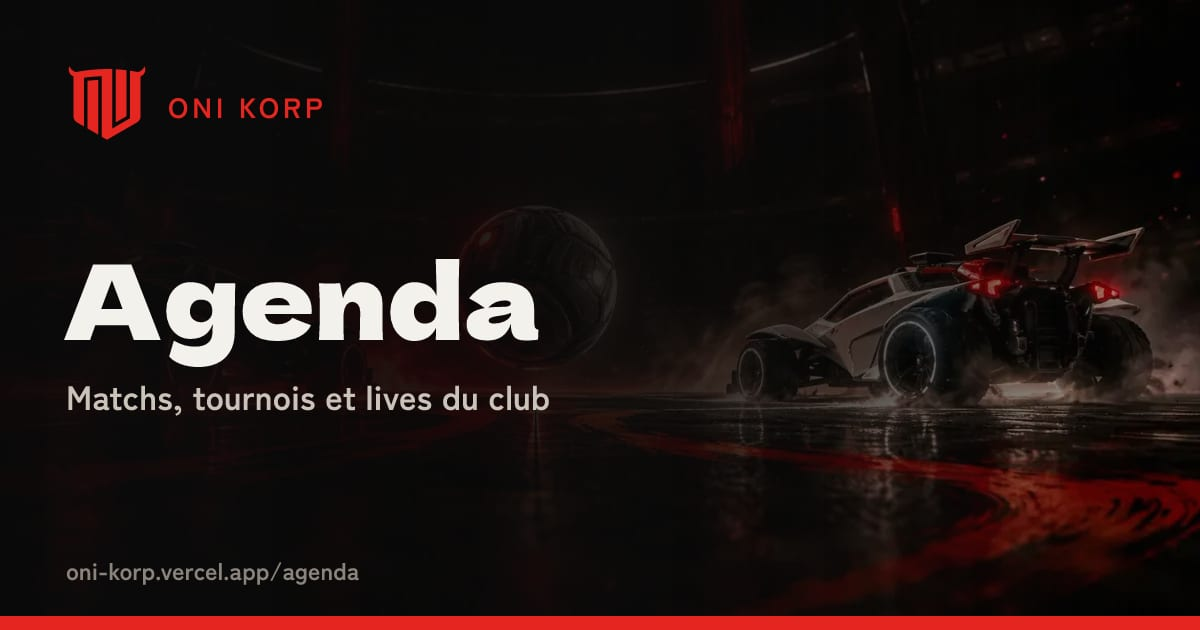
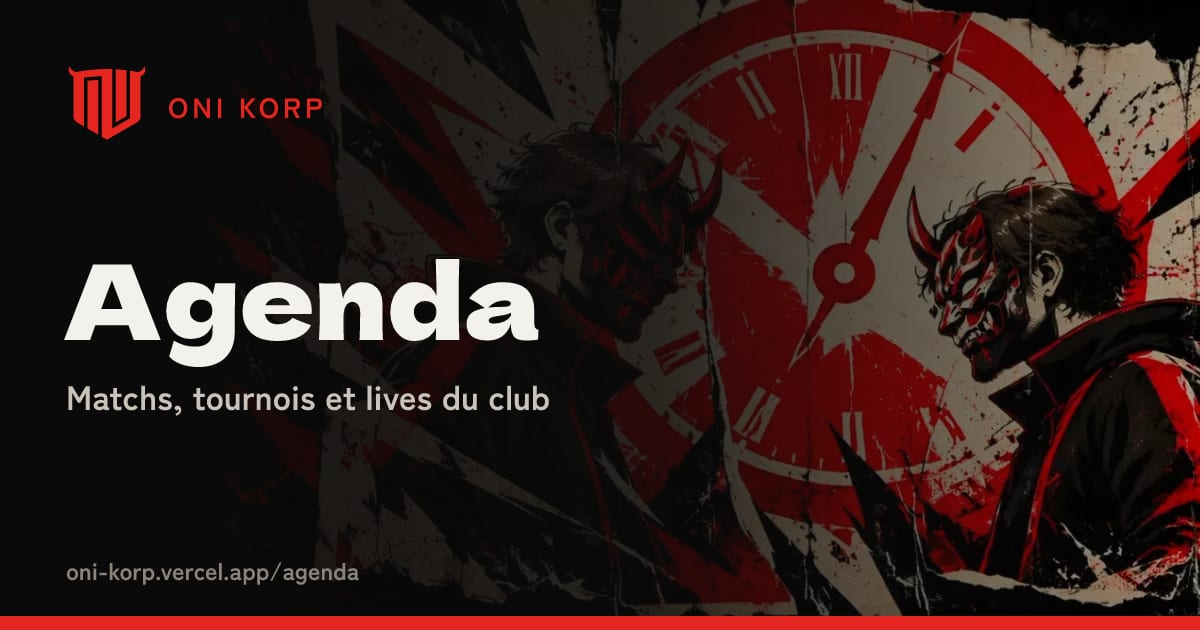
Visuels dédiés : en-têtes Créateurs, Agenda, Partenaires, Contact et Postuler, bandeau pinceau des sections rouges (libère l'image de l'accueil), aperçus de partage mis à jour

diff --git a/src/styles/global.css b/src/styles/global.css
@@ -363,8 +363,8 @@ a.game:hover h3 { color: var(--red-text); }
 .section--brush { position: relative; isolation: isolate; overflow: hidden; }
 .section--brush::before {
   content: ""; position: absolute; inset: 0; z-index: -1;
-  background: url(/img/hero-fond.webp) right center / cover no-repeat;
-  mix-blend-mode: multiply; opacity: .55;
+  background: url(/img/bandeau-pinceau.webp) center / cover no-repeat; /* visuel propre aux bandeaux, pas celui de l'accueil */
+  mix-blend-mode: multiply; opacity: .5;
 }
 
 
@@ -983,7 +983,7 @@ main { counter-reset: page; }
 .sticker[data-rarete="holo"] .sticker__frame::after, .sticker[data-rarete="legendaire"] .sticker__frame::after { background-position: 55% 0; }
 .collection__item.is-missing .sticker__frame::after { display: none; }
 /* Recrutement / accueil : fond pinceau léger sur mobile */
-@media (max-width: 860px) { .section--brush::before { background-image: url(/img/hero-fond-800.webp); } }
+@media (max-width: 860px) { .section--brush::before { background-image: url(/img/bandeau-pinceau-800.webp); } }
 
 /* ---------- Agenda en direct (Oni Bot → /api/agenda) ---------- */
 .agenda { display: grid; grid-template-columns: repeat(auto-fit, minmax(min(100%, 22rem), 1fr)); gap: 2rem; margin-bottom: 2.5rem; }

diff --git a/src/lib/img.js b/src/lib/img.js
@@ -12,6 +12,12 @@ export const variants = {
   'entete-effectif': [800, 2000],
   'entete-recrutement': [800, 2000],
   'entete-vestiaire': [800, 2000],
+  'entete-createurs': [800, 2000],
+  'entete-agenda': [800, 2000],
+  'entete-partenaires': [800, 2000],
+  'entete-contact': [800, 2000],
+  'entete-postuler': [800, 2000],
+  'bandeau-pinceau': [800, 2000],
   'album-couverture': [800, 1400],
   'match-showmatch': [800, 1600],
   'match-cup': [800, 1600],
